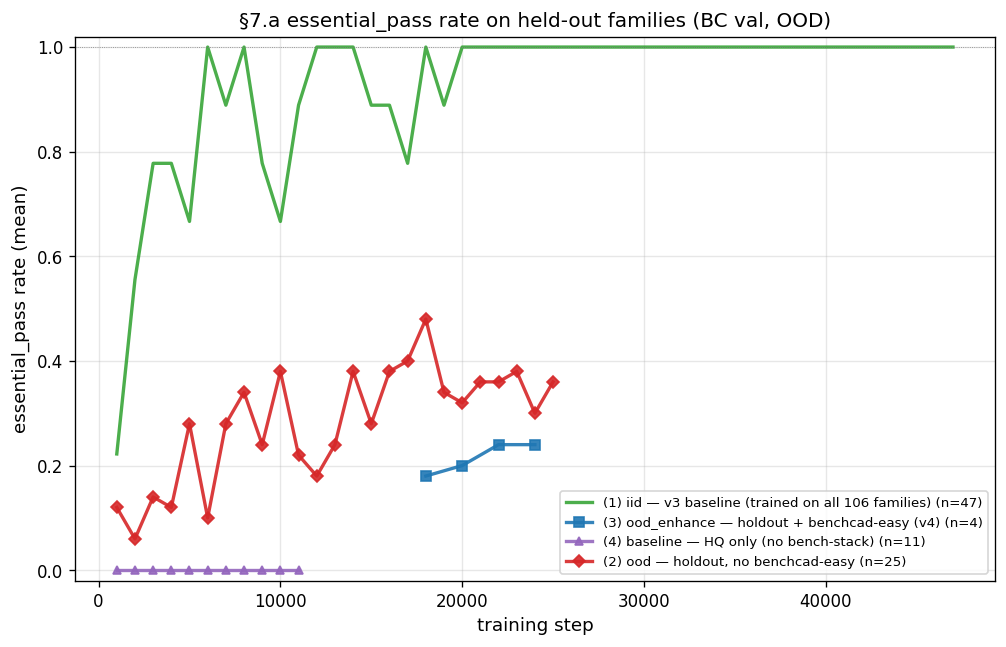
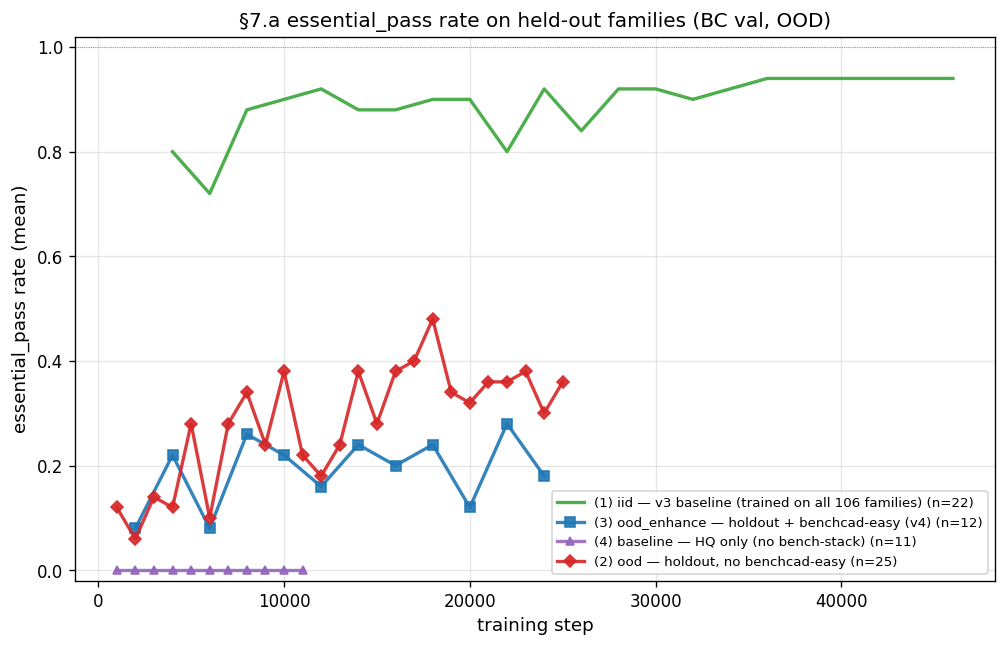
fix(figures): all §7 lines on identical 50-stratified OOD (v3 retro plumbed)
v3 was the last line still pulling from its original per-step JSONL (50 random
BC val rows, ~9 of which fell in holdout fams — same sample-size bias we
already fixed for ood_enhance). Plot now reads v3's BC val OOD bucket from
eval_outputs/v3_ood_retro_hf/ (23 ckpts at 2k–46k via HF download), so all
four §7 lines (iid v3 / ood / ood_enhance / baseline) score on the EXACT
same 50-OOD samples produced by online_eval._stratified_sample_by_family.

Effect on the headline numbers (BC val OOD, step ~24k):
  iid v3 (green):       ~0.92 ess_pass, ~0.70 IoU  (was ~0.85 / ~0.83 with
                                                    9-OOD bias on different rows)
  ood (red):             0.48 ess_pass, 0.31 IoU
  ood_enhance (blue):    0.28 ess_pass, 0.34 IoU
  baseline (purple):     0.00 ess_pass, ~0.07 IoU

ood > ood_enhance on ess_pass (gap ~0.20 at step 24k) is now genuine — same
50 samples, same metric definition, ~24k matched step. benchcad-easy
supplement does NOT help OOD essential_pass, slightly hurts.

diff --git a/scripts/analysis/plot_main_appendix.py b/scripts/analysis/plot_main_appendix.py
@@ -61,6 +61,11 @@ RUNS = [
         'key':   'iid_v3',
         'label': '(1) iid — v3 baseline (trained on all 106 families)',
         'dir':   '/ephemeral/checkpoints/sft-s50k-lr2e-4-b8a4-img-0428-1320/predictions',
+        # v3 was trained pre-refactor → online JSONL has ~9 random OOD per
+        # step (BC val random 50, of which ~9 fall in holdout fams). Use the
+        # HF-driven retro 50-stratified eval so v3's line matches baseline /
+        # ood / ood_enhance exactly on the 50-OOD set.
+        'retro_ood_dir': '/home/ubuntu/cadrille/eval_outputs/v3_ood_retro_hf',
         'plot':  dict(color='C2', linewidth=2.0, marker='', linestyle='-', alpha=0.85),
     },
     {
